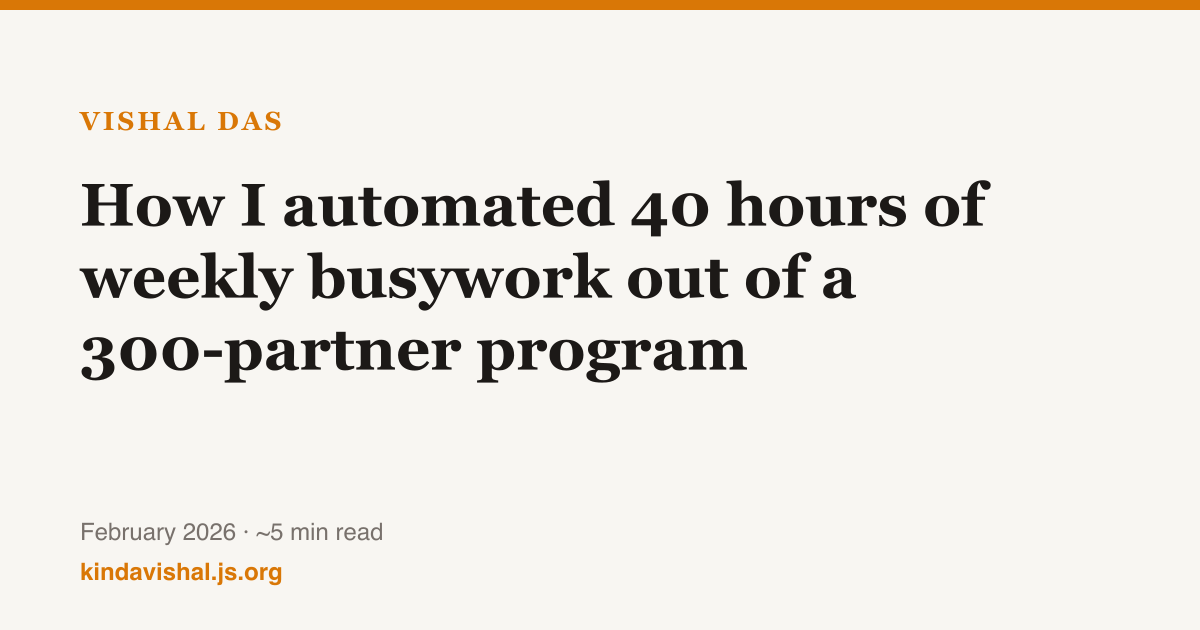
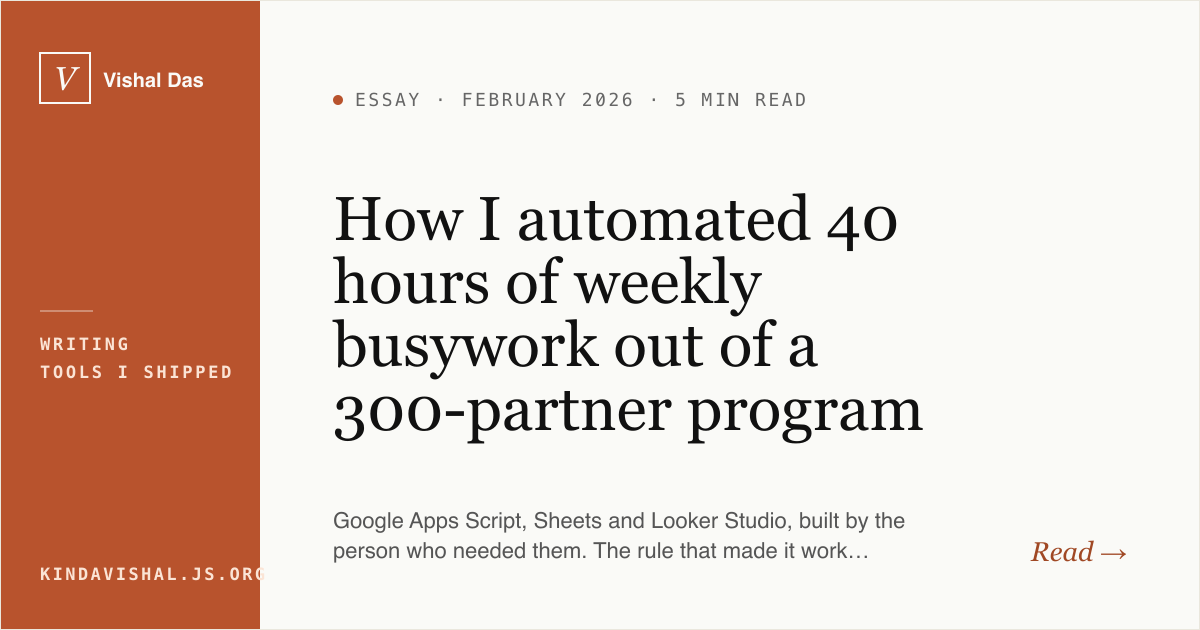
redesign per-post OG cards: editorial + split layout (design 2a)

diff --git a/scripts/build.js b/scripts/build.js
@@ -517,9 +517,12 @@ function injectHomepage(posts) {
 
 /* ---------- OG images ---------- */
 
-// Brand-coloured card generated per post. Falls back to the shared preview
-// card if sharp is unavailable, so image tooling can never break a deploy.
-function wrapText(text, max) {
+// Editorial + split link-preview card, generated per post. Sharp renders the
+// SVG with libvips's system fonts, so this sticks to Georgia / Menlo / Helvetica
+// fallbacks rather than the Instrument Serif / JetBrains Mono / Inter the
+// on-screen design uses. Falls back to the shared preview card if sharp is
+// unavailable, so image tooling can never break a deploy.
+function wrapText(text, max, maxLines) {
   const lines = [];
   let line = '';
   for (const word of text.split(/\s+/)) {
@@ -527,21 +530,85 @@ function wrapText(text, max) {
     else line = line ? `${line} ${word}` : word;
   }
   if (line) lines.push(line);
-  return lines.slice(0, 4);
+  if (lines.length > maxLines) {
+    const kept = lines.slice(0, maxLines);
+    kept[maxLines - 1] = kept[maxLines - 1].replace(/[.,;:!?]*$/, '') + '…';
+    return kept;
+  }
+  return lines;
 }
 
+// Category on the post is the raw taxonomy; readers see the group label.
+// Kept in step with GROUP_LABELS in renderIndex.
+const OG_GROUP_LABELS = {
+  'Creator programs': 'Programs I built',
+  'Internal tooling': 'Tools I shipped',
+  'Attribution':      'Proving the work',
+  'The field':        'The state of the field',
+};
+
 function ogSvg(post) {
-  const lines = wrapText(post.title, 30);
-  const size = lines.length > 3 ? 52 : lines.length > 2 ? 60 : 68;
-  const startY = 300 - ((lines.length - 1) * size * 0.62);
+  const SERIF = "Georgia, 'Times New Roman', serif";
+  const MONO  = 'Menlo, Consolas, monospace';
+  const SANS  = 'Helvetica, Arial, sans-serif';
+
+  const orange     = '#b8532d';
+  const orangeDark = '#a04824';
+  const cream      = '#fafaf7';
+  const creamTint  = '#fbe4d5';
+  const border     = '#eae7dd';
+  const ink        = '#111';
+  const inkMuted   = '#555';
+  const inkLabel   = '#666';
+
+  const group = OG_GROUP_LABELS[post.category] || 'Writing';
+  const meta  = `Essay · ${post.dateDisplay} · ${post.readtime} min read`.toUpperCase();
+
+  // Right panel is 940 wide (1200 - 260) with 73px side padding = 794 usable.
+  const titleLines = wrapText(post.title, 22, 4);
+  const titleSize  = titleLines.length > 3 ? 62 : titleLines.length > 2 ? 70 : 77;
+  const titleLead  = titleSize * 1.02;
+  const titleBlockH = titleSize + (titleLines.length - 1) * titleLead;
+  const titleTop   = 315 - titleBlockH / 2;
+
+  const descLines = post.description
+    ? wrapText(post.description, 58, 2)
+    : [];
+
+  const titleSvg = titleLines
+    .map((l, i) => `  <text x="333" y="${Math.round(titleTop + titleSize * 0.82 + i * titleLead)}" font-family="${SERIF}" font-size="${titleSize}" fill="${ink}">${esc(l)}</text>`)
+    .join('\n');
+
+  const descSvg = descLines
+    .map((l, i) => `  <text x="333" y="${528 + i * 30}" font-family="${SANS}" font-size="22" fill="${inkMuted}">${esc(l)}</text>`)
+    .join('\n');
 
   return `<svg xmlns="http://www.w3.org/2000/svg" width="1200" height="630">
-  <rect width="1200" height="630" fill="#F8F6F2"/>
-  <rect width="1200" height="10" fill="#D97706"/>
-  <text x="80" y="130" font-family="Georgia,serif" font-size="26" font-weight="bold" fill="#D97706" letter-spacing="3">VISHAL DAS</text>
-${lines.map((l, i) => `  <text x="80" y="${startY + i * size * 1.2}" font-family="Georgia,serif" font-size="${size}" font-weight="bold" fill="#1C1917">${esc(l)}</text>`).join('\n')}
-  <text x="80" y="540" font-family="Helvetica,Arial,sans-serif" font-size="24" fill="#78716C">${esc(post.dateDisplay)} · ~${post.readtime} min read</text>
-  <text x="80" y="580" font-family="Helvetica,Arial,sans-serif" font-size="24" font-weight="bold" fill="#D97706">kindavishal.js.org</text>
+  <rect width="1200" height="630" fill="${cream}"/>
+
+  <!-- Left brand panel -->
+  <rect x="0" y="0" width="260" height="630" fill="${orange}"/>
+  <rect x="40" y="53" width="50" height="50" fill="none" stroke="${cream}" stroke-width="2"/>
+  <text x="65" y="90" font-family="${SERIF}" font-style="italic" font-size="33" fill="${cream}" text-anchor="middle">V</text>
+  <text x="103" y="87" font-family="${SANS}" font-size="20" font-weight="600" fill="${cream}">Vishal Das</text>
+
+  <rect x="40" y="310" width="53" height="2" fill="${cream}" opacity="0.35"/>
+  <text x="40" y="350" font-family="${MONO}" font-size="17" font-weight="600" fill="${creamTint}" letter-spacing="2.7">WRITING</text>
+  <text x="40" y="378" font-family="${MONO}" font-size="17" font-weight="600" fill="${creamTint}" letter-spacing="2.7">${esc(group.toUpperCase())}</text>
+
+  <text x="40" y="580" font-family="${MONO}" font-size="17" font-weight="600" fill="${creamTint}" letter-spacing="2.4">KINDAVISHAL.JS.ORG</text>
+
+  <!-- Right content panel -->
+  <circle cx="338" cy="100" r="5" fill="${orange}"/>
+  <text x="355" y="106" font-family="${MONO}" font-size="18" fill="${inkLabel}" letter-spacing="2.5">${esc(meta)}</text>
+
+${titleSvg}
+
+${descSvg}
+  <text x="1127" y="561" font-family="${SERIF}" font-style="italic" font-size="27" fill="${orangeDark}" text-anchor="end">Read →</text>
+
+  <!-- Outer hairline border -->
+  <rect x="0.5" y="0.5" width="1199" height="629" fill="none" stroke="${border}" stroke-width="1"/>
 </svg>`;
 }
 
